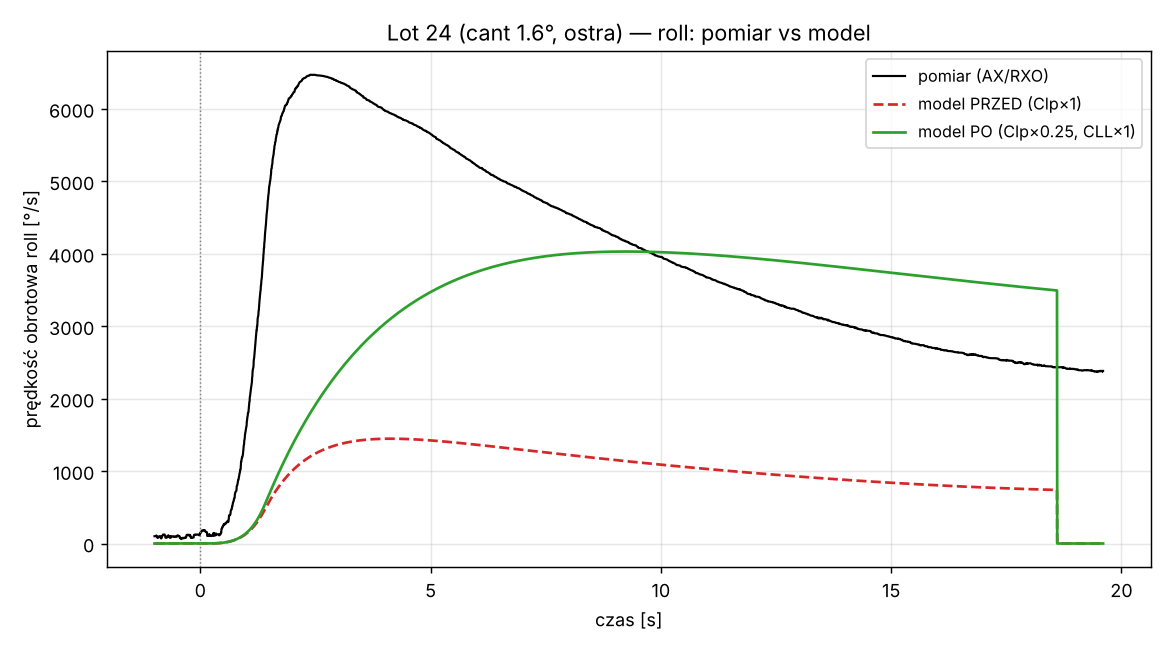
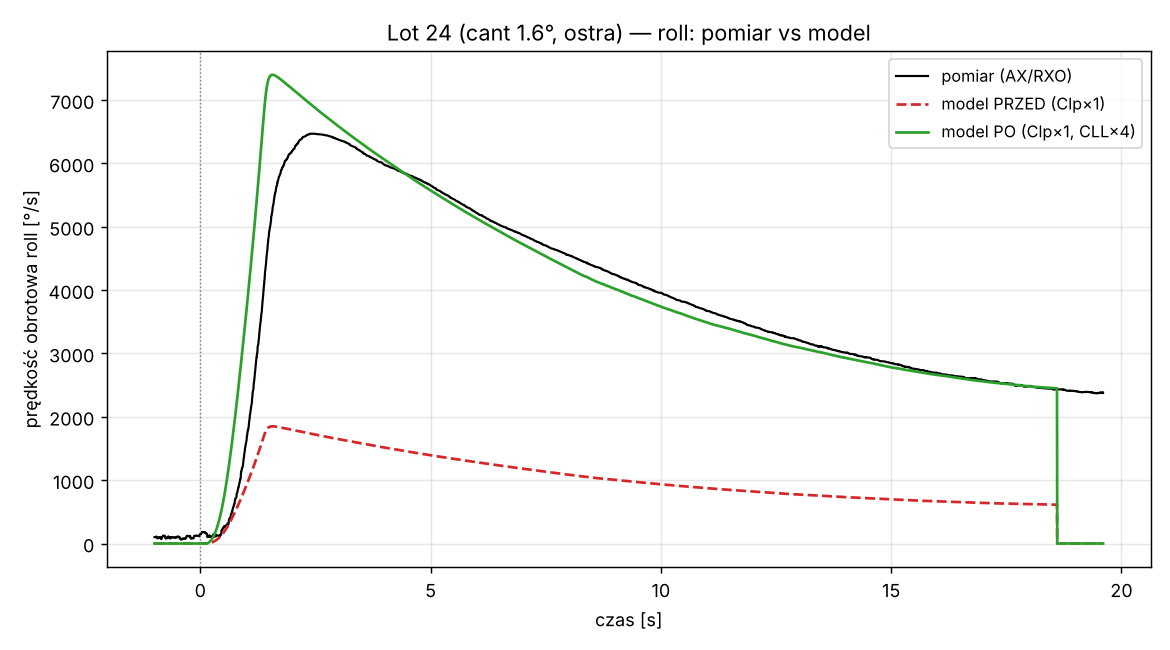
Fix roll-model envelope: V=max(acc_x, GPS) to stop coast drift
The late-flight divergence on some flights (16/19/20, all old-format) came from
the 3D IMU reconstruction drifting: its speed stayed ~280 m/s through the whole
coast while GPS correctly decayed to ~130, so the model held the roll too high
after apogee. Replace the reconstruction envelope with V = max(axial acc_x
speed, smoothed GPS): acc_x is right on the boost (GPS under-reads there) and
GPS is right in coast (acc_x drifts low), and the crossover picks itself. Model
roll now tracks the test across the whole trajectory (m/p ~0.9-1.1 for 16/19/20/
25), not just the rise. Regenerated all roll_model plots.

Claude-Session: https://claude.ai/code/session_016ry2enmcJ1dddpXR78yRQo

diff --git a/FlightSim/telemetry_analysis/compare_roll_model.py b/FlightSim/telemetry_analysis/compare_roll_model.py
@@ -35,11 +35,10 @@ from pathlib import Path
 sys.path.insert(0, str(Path(__file__).resolve().parent))
 from telemetry_parser import (parse_telemetry, resolve_data_file,
                               read_config_rows, load_flight_config)
-from imu_reconstruction import (detect_ignition, calibrate,
-                                initial_orientation, reconstruct)
+from imu_reconstruction import detect_ignition
 from analyze_spin_cant import (load_model_roll, MODEL_RUNS, isa_rho,
                                isa_sound_speed, extract_spin, detect_burnout,
-                               _smooth, D_REF, S_REF, RESULTS)
+                               axial_speed, _smooth, D_REF, S_REF, RESULTS)
 
 IXX_FULL = 0.0032      # roll [kg·m²] przed wypaleniem (yaml)
 IXX_EMPTY = 0.0028     # roll [kg·m²] po wypaleniu (yaml)
@@ -71,28 +70,33 @@ def model_roll_interpolators():
     return cll_of, clp_of, (float(mach.min()), float(mach.max()))
 
 
+def _gps_speed(tel):
+    """Całkowita prędkość z GPS [m/s] (3 składowe, inaczej prędkość pokładowa)."""
+    vN = tel.raw_columns.get("vel_north_ms")
+    if vN is not None:
+        return np.sqrt(np.nan_to_num(vN) ** 2
+                       + np.nan_to_num(tel.raw_columns.get("vel_east_ms")) ** 2
+                       + np.nan_to_num(tel.raw_columns.get("vel_down_ms")) ** 2)
+    v = tel.raw_columns.get("vel")
+    return v if v is not None else tel.vel_onboard
+
+
 def flight_envelope(tel, t_ign, t_end, fno):
-    """V(t), alt(t) z rekonstrukcji IMU na siatce tel.time (NaN poza oknem)."""
-    cfg = load_flight_config(fno)
-    az = cfg["azimuth"] if cfg else 90.0
-    el = cfg["elevation"] if cfg else 45.0
-    try:
-        cal = calibrate(tel, t_rest_end=-1.0)
-        q0 = initial_orientation(cal, az, el)
-        traj = reconstruct(tel, cal, q0, t_start=t_ign, t_end=t_end)
-        V = np.interp(tel.time, traj.time, traj.speed, left=np.nan, right=np.nan)
-        alt = np.interp(tel.time, traj.time, traj.alt, left=np.nan, right=np.nan)
-        return V, alt
-    except Exception as e:
-        print(f"  [env] rekonstrukcja nieudana ({e}) — GPS")
-        vN = tel.raw_columns.get("vel_north_ms")
-        if vN is not None:
-            V = np.sqrt(np.nan_to_num(vN) ** 2
-                        + np.nan_to_num(tel.raw_columns.get("vel_east_ms")) ** 2
-                        + np.nan_to_num(tel.raw_columns.get("vel_down_ms")) ** 2)
-        else:
-            V = tel.raw_columns.get("vel", tel.vel_onboard)
-        return V, tel.alt_onboard
+    """
+    Obwiednia V(t), alt(t). BLEND: całka osiowa acc_x na ciągu (GPS tam zaniża
+    V), GPS w wybiegu (acc_x tam dryfuje za nisko; rekonstrukcja 3D — za wysoko).
+    Przejście płynne w oknie [t_bo, t_bo+2 s].
+    """
+    t = tel.time
+    Vgps = _smooth(_gps_speed(tel), 25)
+    Vax = axial_speed(tel, t_ign)
+    if Vax is None:
+        return Vgps, tel.alt_onboard
+    # V = max(acc_x, GPS): na ciągu GPS zaniża -> wygrywa acc_x; w wybiegu acc_x
+    # dryfuje za nisko -> wygrywa GPS. Punkt przecięcia dobiera się sam.
+    good = np.isfinite(Vgps) & (Vgps > 10) & (t > t_ign)
+    V = np.where(good, np.maximum(Vax, Vgps), Vax)
+    return V, tel.alt_onboard
 
 
 def integrate_roll(t, V, alt, cant, t_ign, t_bo, t_end, cll_of, clp_of,
